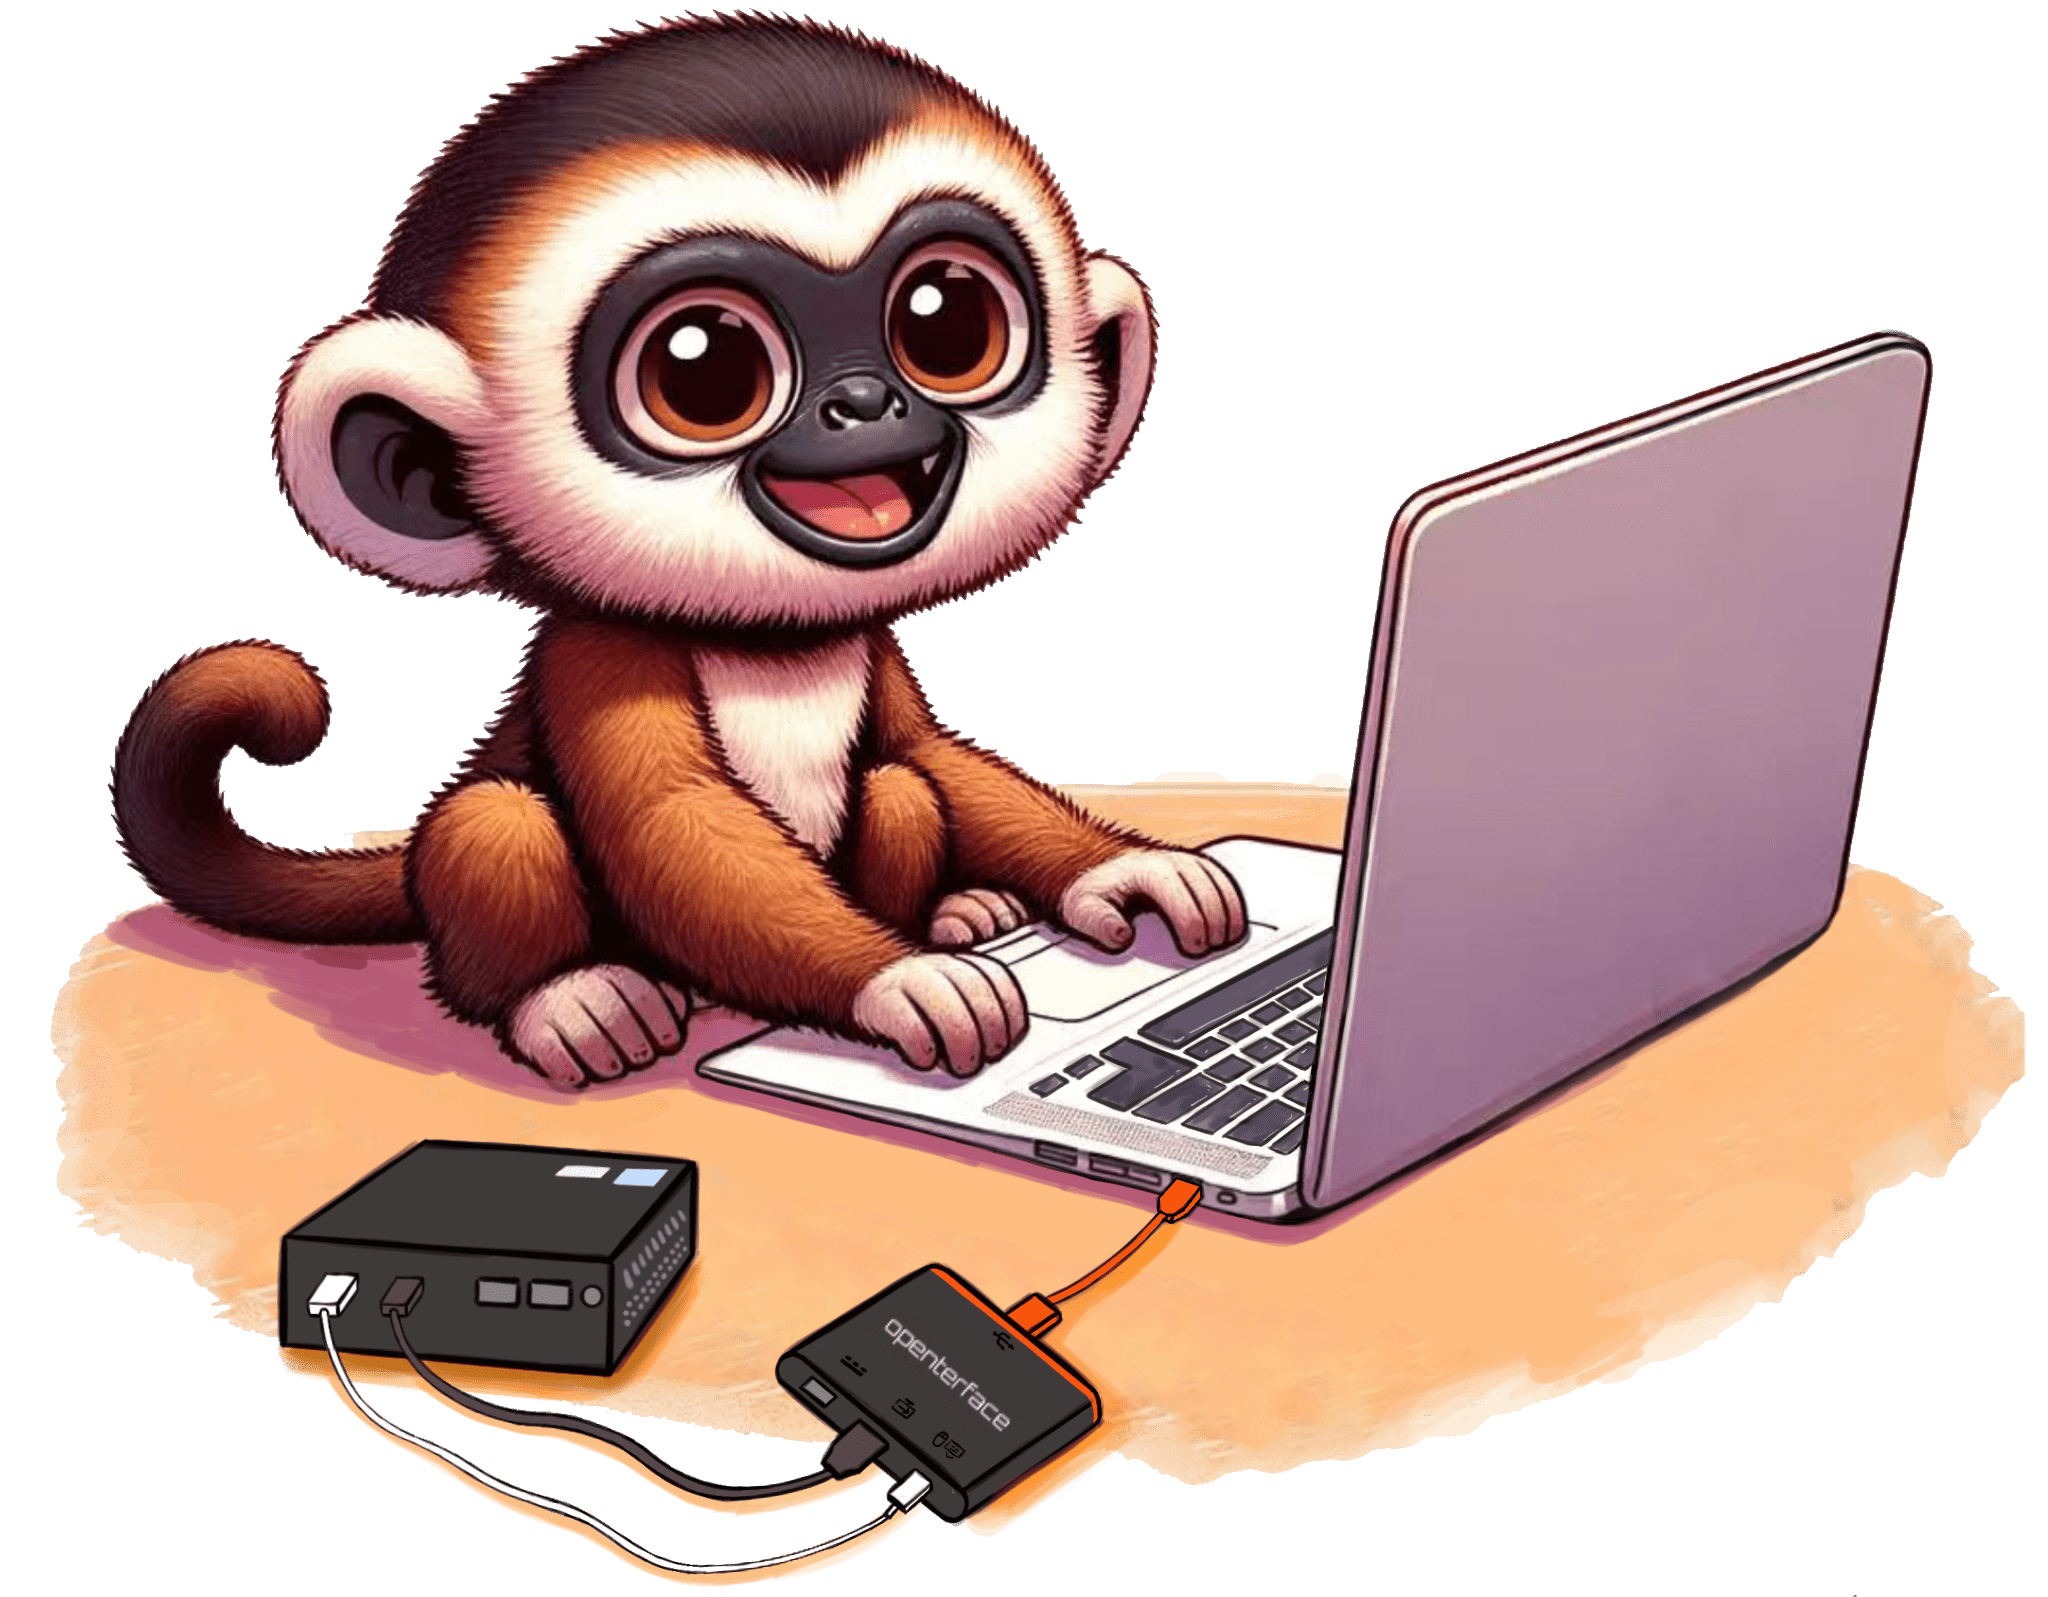
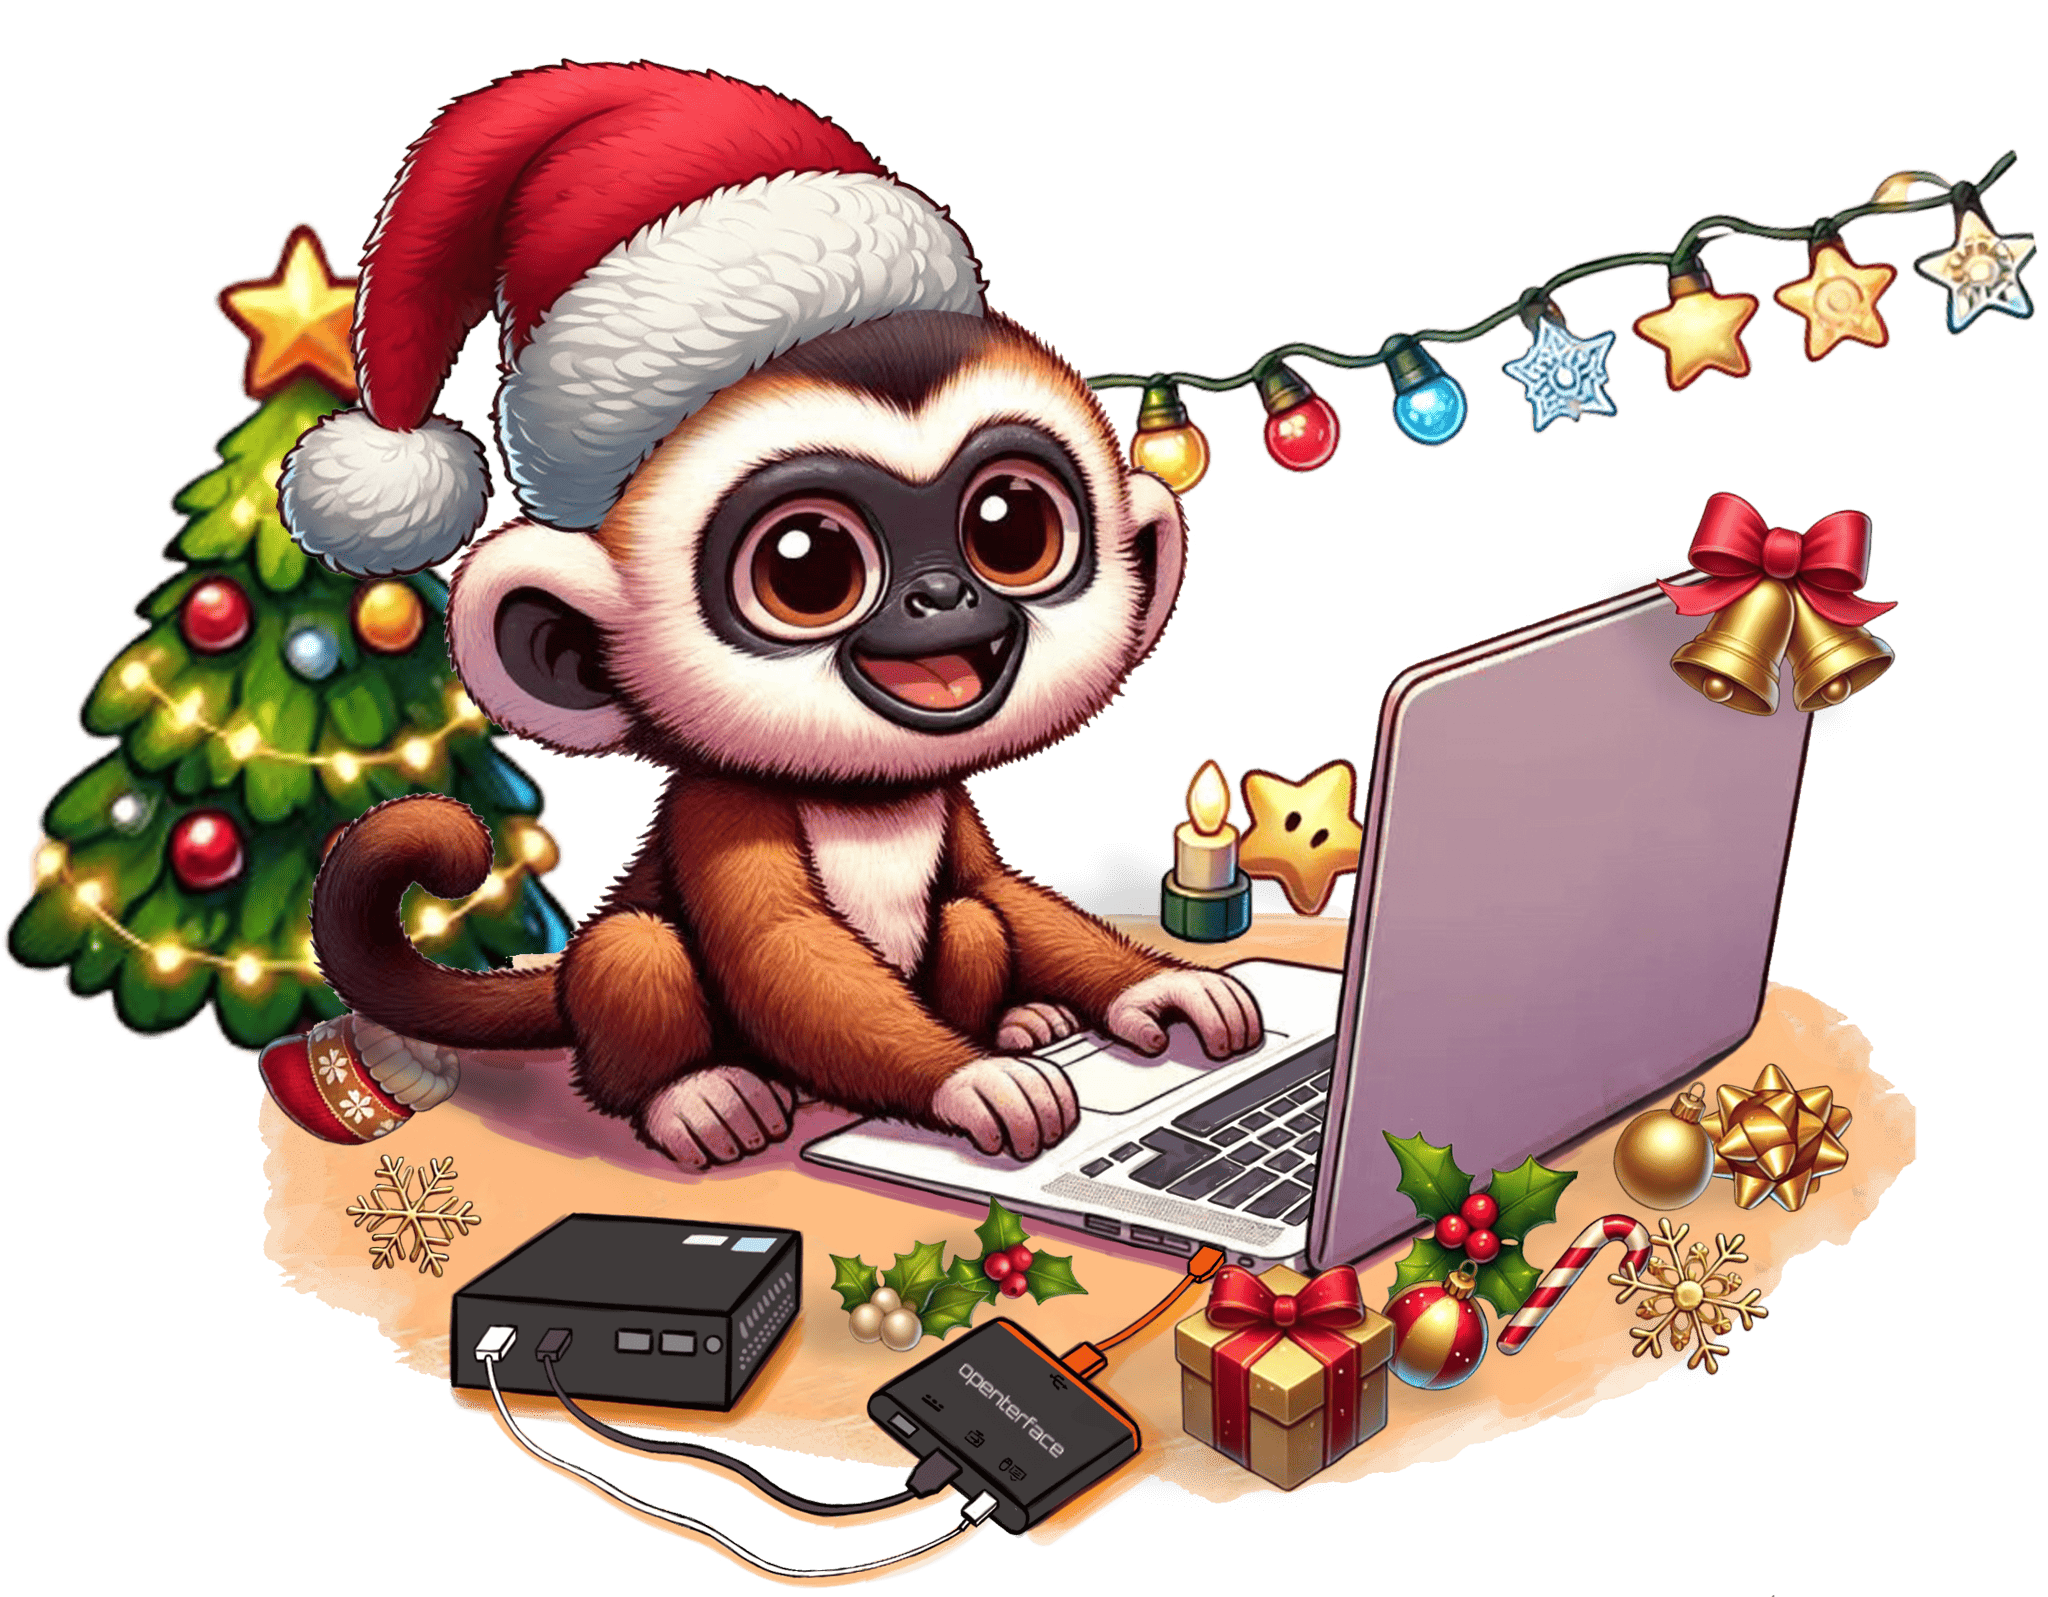
update for holiday

diff --git a/docs/overrides/home.html b/docs/overrides/home.html
@@ -21,10 +21,14 @@
           <!-- <a href="{{ 'https://www.crowdsupply.com/techxartisan/openterface-mini-kvm' | url }}" title="Pre Order" class="md-button md-button--primary"></a>
             Order NOW! <img src="images/trademark/txa.svg" alt="txa" style="vertical-align: middle; height: 26px;">
           </a> -->
-          <a href="{{ 'https://www.crowdsupply.com/techxartisan/usb-kvm-diy-challenge-2024' | url }}" title="Challenge" class="md-button" style="background-color: #ff4500; color: #fff; font-weight: bold; border: 2px solid #ff4500; box-shadow: 0px 4px 10px rgba(0, 0, 0, 0.3); animation: pulse 1.5s infinite;">
+          <a href="{{ '/blog/merry-christmas--happy-new-year--a-liitle-treat-from-openterface-team/' | url }}" title="Celebrate" class="md-button" style="background-color: #ff4500; color: #fff; font-weight: bold; border: 2px solid #ff4500; box-shadow: 0px 4px 10px rgba(0, 0, 0, 0.3); animation: pulse 1.5s infinite;">
+            Holiday Vibe
+          </a>
+          <p><strong>Buy two Mini-KVMs & get a $20 credit coupon! 🎉</strong></p>
+          <!-- <a href="{{ 'https://www.crowdsupply.com/techxartisan/usb-kvm-diy-challenge-2024' | url }}" title="Challenge" class="md-button" style="background-color: #ff4500; color: #fff; font-weight: bold; border: 2px solid #ff4500; box-shadow: 0px 4px 10px rgba(0, 0, 0, 0.3); animation: pulse 1.5s infinite;">
             DIY Challenge
           </a>
-          <p>Build your own <strong>USB KVM</strong> & win incredible prizes! 🏆</p>
+          <p>Build your own <strong>USB KVM</strong> & win incredible prizes! 🏆</p> -->
           <!-- <p>Order NOW on <img src="images/trademark/crowd-supply.svg" alt="Crowd Supply" style="vertical-align: middle; height: 26px;"> for shipping by Jan 17, 2025</p> -->
           <!-- <p><a href="{{ 'https://www.crowdsupply.com/techxartisan/usb-kvm-diy-challenge-2024' | url }}" style="text-decoration: underline;"><strong>Join USB KVM Contest</strong></a> & win incredible prizes!</p> -->
         </div>

diff --git a/docs/blog/posts/241224-merry-christmas.md b/docs/blog/posts/241224-merry-christmas.md
@@ -1,0 +1,35 @@
+---
+date: 2024-12-24
+authors:
+  - Openterface
+categories:
+  - Updates
+---
+
+# Merry Christmas & Happy New Year & A Liitle Treat from Openterface Team!
+
+<iframe width="560" height="315" src="https://www.youtube.com/embed/wEWAhXCXQ1E?si=RU4QVXxP_Fi6WAu_" title="YouTube video player" frameborder="0" allow="accelerometer; autoplay; clipboard-write; encrypted-media; gyroscope; picture-in-picture; web-share" referrerpolicy="strict-origin-when-cross-origin" allowfullscreen></iframe>
+
+Hi there,
+
+We hope this email finds you well as we wrap up the year! To celebrate the New Year and show our appreciation for your support, we’ve got a little something special for you.
+
+But first, we want to take a moment to say a big thank youto everyone who has been part of our journey this year. Whether you’re a developer who helped us bring our ideas to life, one of our beta testers who gave us invaluable early feedback, a supporter who offered guidance and encouragement, or one of our amazing backers who believed in us from the start—you’ve made this year unforgettable. We couldn’t have done it without you.
+
+Here’s the deal:
+Between **December 24, 2024**, and **January 10, 2025**, if you buy two Mini-KVM Toolkitson Crowd Supply, we’ll send you **a $20 store creditfor our TxA shop**.
+
+It’s super easy—just take a screenshot of your order confirmation from Crowd Supply and email it to [info@techxartisan.com](mailto:info@techxartisan.com). We’ll verify your purchase and reply with your $20 store credit code.
+
+We’ve also got a special holiday surprise for you. Take a moment to relax and enjoy our cozy Christmas video—check out the beautiful lights and listen to [soothing Christmas tunes](https://www.youtube.com/watch?v=wEWAhXCXQ1E). We hope it brings a little joy to your day!
+
+This is our way of saying thanks and kicking off 2025 with a small gift from us to you.
+
+As we reflect on the past year, we are truly grateful for the incredible support from our community. Your belief in our vision has been the driving force behind everything we do. To our developers who turned ideas into reality, our beta testers who helped refine our product, and our early supporters who provided feedback, encouragement, and guidance—thank you for being part of our journey. And to our backers, your trust means the world to us, and we’re endlessly appreciative of your role in making all of this possible.
+
+Got questions? Just drop us a line—we’re always here to help. As we welcome 2025, we wish you and your loved ones a joyful New Year filled with happiness, success, and exciting new adventures.
+
+Thank you for being part of our story. We’re excited to create even more amazing things together in the year ahead!
+
+Warm regards,
+The Openterface Team
